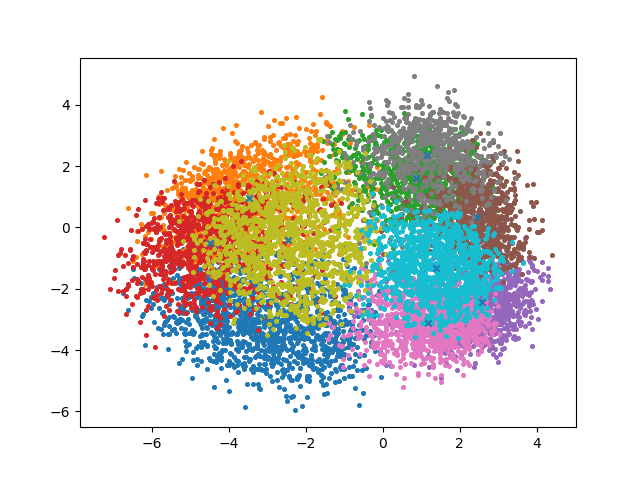
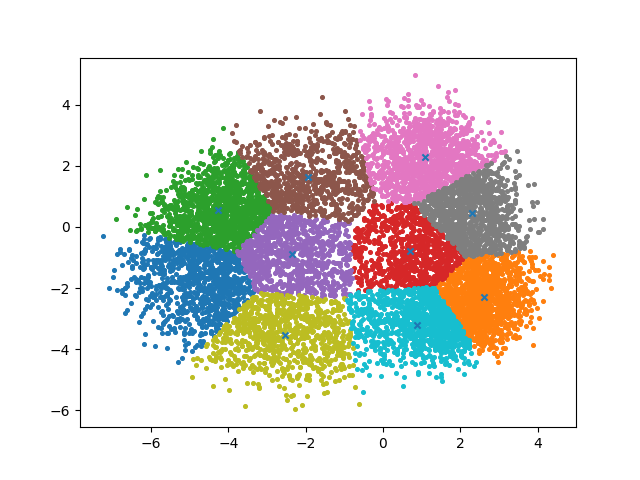
kMeans Algorithm

diff --git a/HW04/hw4.py b/HW04/hw4.py
@@ -55,9 +55,8 @@ def load_data(dataset):
 
 class kMeans():
 
-    def __init__(self, k, data, dim):
+    def __init__(self, k, dim):
         self.k = k
-        self.data = data
         self.dim = dim
 
     def init_centroids(self):
@@ -89,11 +88,12 @@ class kMeans():
             new_centroids[cent_id] = new
 
         if dim is None:
-            return new_centroids.reshape(-1, 784)
+            return new_centroids
         else:
             return new_centroids.reshape(len(new_centroids), -1)
 
-    def run(self):
+    def fit(self, data):
+        self.data = data
         print('\t Starting kMeans algorithm')
         prev_diff = 0
         centroids = self.init_centroids()
@@ -114,7 +114,7 @@ class kMeans():
             if changes < 10e-6:
                 break
 
-        return clusters, centroids
+        return centroids, clusters
 
 
 def extract_feature(feature, train_set):
@@ -142,12 +142,11 @@ def eigenprojection(data, dim=2):
     return eigen_data
 
 
-def draw_scatter(k, dim, data, clusters, centroids):
+def draw_scatter(k, dim, data, centroids, clusters):
 
     fig, ax = plt.subplots()
 
     for i, j in clusters.items():
-        print(i)
         clustered_data = np.array(data[j])
 
         if dim is None:
@@ -164,14 +163,15 @@ if __name__ == '__main__':
 
     feature = [3, 9]
     num_cluster = [2, 3, 5, 10]
-    eigen_dim_list = [2, 5, 10]
+    eigen_dim_list = [None, 2, 5, 10]
+
+    data = extract_feature(feature, train_set)
 
     for dim in eigen_dim_list:
         for k in num_cluster:
-            data = extract_feature(feature, train_set)
 
             if dim is not None:
                 data = eigenprojection(data, dim)
 
-            opt_clusters, centroids = kMeans(k, data, dim).run()
-            draw_scatter(k, dim, data, opt_clusters, centroids)
+            centroids, clusters = kMeans(k, dim).fit(data)
+            draw_scatter(k, dim, data, centroids, clusters)
